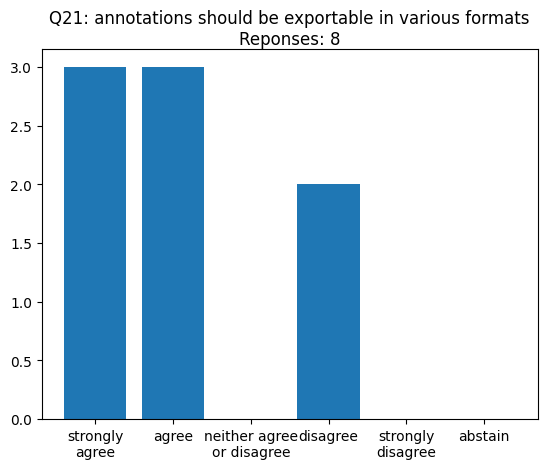
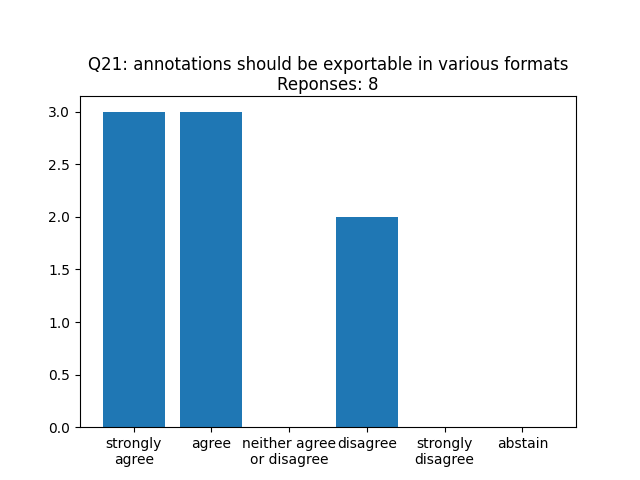
final plots

diff --git a/gen_plot.py b/gen_plot.py
@@ -11,5 +11,6 @@ for p in data:
     single_data = p[3:].astype(np.int)
     plt.bar([0,1,2,3,4,5], single_data, tick_label=boxes)
     plt.title("Q" +  str(id) + ": " + title + "\nReponses: " + str(total), wrap=True)
-    plt.savefig("plots/" + str(id), bbox_inches='tight')
+    plt.subplots_adjust(top=0.8)
+    plt.savefig("plots/" + str(id))
     plt.close()
